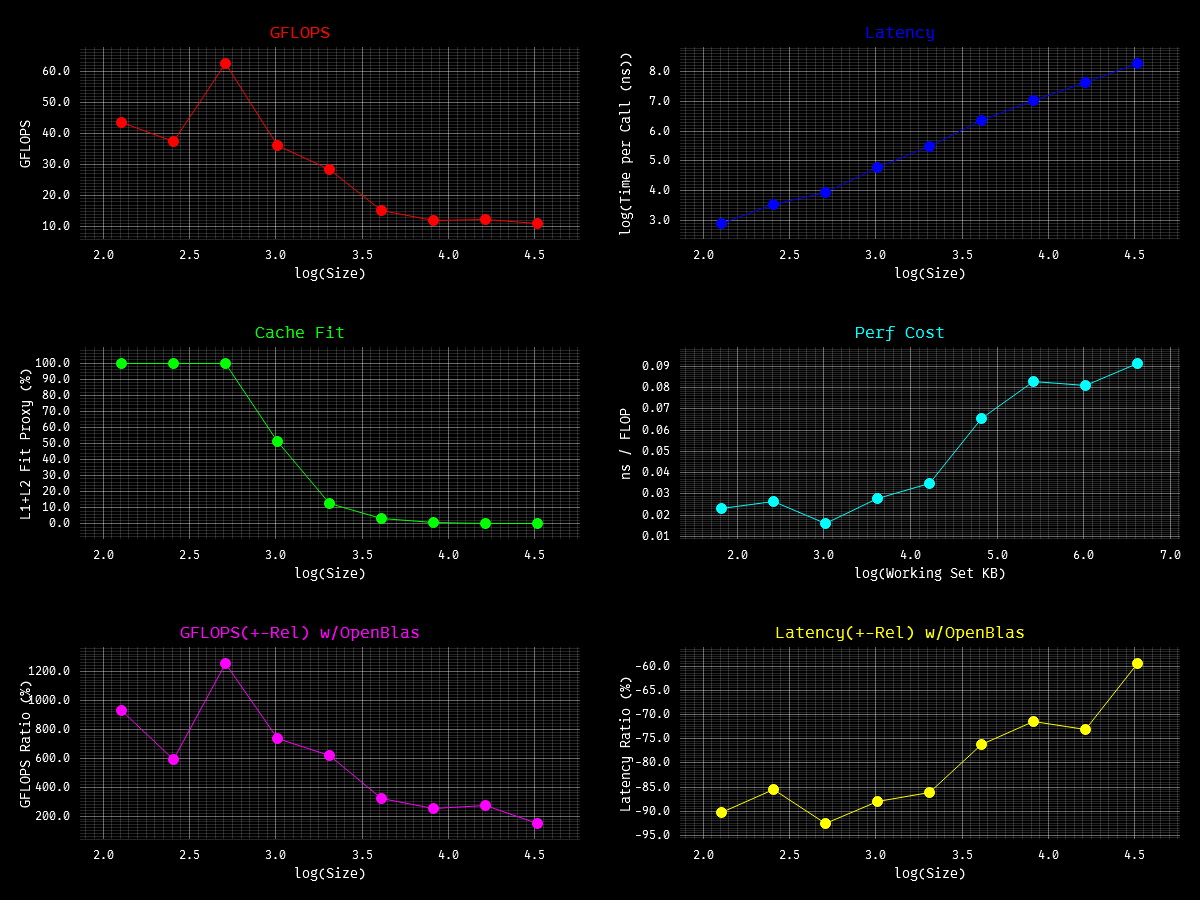
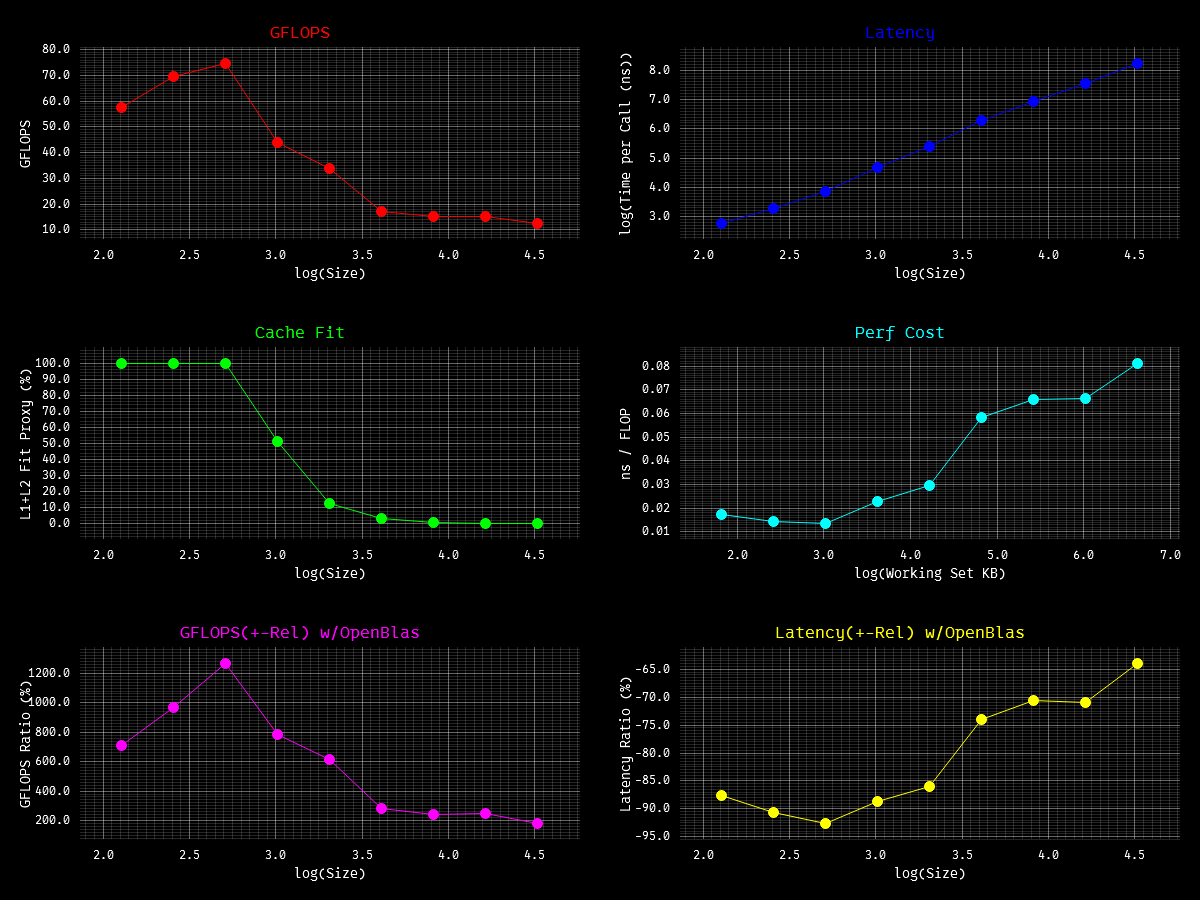
feat: refactor `gemv` trans_a; unroll col by 6, 32 fp per iter trans_b; unroll col by 4, 16 fp per iter.

diff --git a/src/lvl2.rs b/src/lvl2.rs
@@ -77,29 +77,35 @@ pub fn gemv(
         if incx == 1 && incy == 1 {
             unsafe {
                 let mut j = 0usize;
-                // 4 col unrolling
-                while j + 3 < n {
+                // 6 col unrolling
+                while j + 5 < n {
                     let alpha_x0 = alpha * *x_ptr.add(j);
                     let alpha_x1 = alpha * *x_ptr.add(j + 1);
                     let alpha_x2 = alpha * *x_ptr.add(j + 2);
                     let alpha_x3 = alpha * *x_ptr.add(j + 3);
+                    let alpha_x4 = alpha * *x_ptr.add(j + 4);
+                    let alpha_x5 = alpha * *x_ptr.add(j + 5);
 
                     // load x alpha's
                     let ax0 = _mm256_set1_ps(alpha_x0);
                     let ax1 = _mm256_set1_ps(alpha_x1);
                     let ax2 = _mm256_set1_ps(alpha_x2);
                     let ax3 = _mm256_set1_ps(alpha_x3);
+                    let ax4 = _mm256_set1_ps(alpha_x4);
+                    let ax5 = _mm256_set1_ps(alpha_x5);
 
                     let col0 = a_ptr.add(j * lda);
                     let col1 = a_ptr.add((j + 1) * lda);
                     let col2 = a_ptr.add((j + 2) * lda);
                     let col3 = a_ptr.add((j + 3) * lda);
+                    let col4 = a_ptr.add((j + 4) * lda);
+                    let col5 = a_ptr.add((j + 5) * lda);
 
-                    _mm_prefetch(a_ptr.add((j + 4) * lda) as *const i8, _MM_HINT_NTA);
-                    _mm_prefetch(a_ptr.add((j + 11) * lda) as *const i8, _MM_HINT_NTA);
+                    _mm_prefetch(a_ptr.add((j + 5) * lda) as *const i8, _MM_HINT_NTA);
+                    _mm_prefetch(a_ptr.add((j + 12) * lda) as *const i8, _MM_HINT_NTA);
 
                     let mut i = 0usize;
-                    // process 32 rows (load 4 reg for y and ~8 reg for a's col and 4 for store)
+                    // process 32 rows (load 4 reg for y and ~6 reg for a's col and 4 for store)
                     while i + 32 <= m {
                         // load y write buf once
                         let mut y0 = _mm256_loadu_ps(y_ptr.add(i));
@@ -107,9 +113,9 @@ pub fn gemv(
                         let mut y2 = _mm256_loadu_ps(y_ptr.add(i + 16));
                         let mut y3 = _mm256_loadu_ps(y_ptr.add(i + 24));
 
-                        // load 4 col of A and do 4 fmadd for each col;
-                        // i.e. 128 ops for 32 rows * 4 col with just 4 loads of x and 16 loads of A, and 4 stores for y;
-                        // we are doing a lot of work with minimal loads/stores, just praying for cpu-chan to schedule well
+                        // load 6 col of A and do 6 fma for each col;
+                        // we are doing a lot of work with minimal loads/stores,
+                        // just praying for cpu-chan to schedule well
 
                         // col 1
                         let c10 = _mm256_loadu_ps(col0.add(i));
@@ -151,9 +157,29 @@ pub fn gemv(
                         y2 = _mm256_fmadd_ps(ax3, c42, y2);
                         y3 = _mm256_fmadd_ps(ax3, c43, y3);
 
-                        // write back once per 4 col
-                        // TODO; store/compute/load all iteration is HEAVY!!!,
-                        //  we can load 4 col and just pray for cpu
+                        // col 5
+                        let c50 = _mm256_loadu_ps(col4.add(i));
+                        let c51 = _mm256_loadu_ps(col4.add(i + 8));
+                        let c52 = _mm256_loadu_ps(col4.add(i + 16));
+                        let c53 = _mm256_loadu_ps(col4.add(i + 24));
+                        y0 = _mm256_fmadd_ps(ax4, c50, y0);
+                        y1 = _mm256_fmadd_ps(ax4, c51, y1);
+                        y2 = _mm256_fmadd_ps(ax4, c52, y2);
+                        y3 = _mm256_fmadd_ps(ax4, c53, y3);
+
+                        // col 6
+                        let c60 = _mm256_loadu_ps(col5.add(i));
+                        let c61 = _mm256_loadu_ps(col5.add(i + 8));
+                        let c62 = _mm256_loadu_ps(col5.add(i + 16));
+                        let c63 = _mm256_loadu_ps(col5.add(i + 24));
+                        y0 = _mm256_fmadd_ps(ax5, c60, y0);
+                        y1 = _mm256_fmadd_ps(ax5, c61, y1);
+                        y2 = _mm256_fmadd_ps(ax5, c62, y2);
+                        y3 = _mm256_fmadd_ps(ax5, c63, y3);
+
+                        // write back once per 6 col
+                        // TODO; store/compute/load all iteration is SLOW HEAVY!!!,
+                        //  we can load 6 col and just pray for cpu
                         _mm256_storeu_ps(y_ptr.add(i), y0);
                         _mm256_storeu_ps(y_ptr.add(i + 8), y1);
                         _mm256_storeu_ps(y_ptr.add(i + 16), y2);
@@ -162,32 +188,36 @@ pub fn gemv(
                         i += 32;
                     }
 
-                    // squeeze out everything (1 y load per 4 col)
+                    // squeeze out everything (1 y load per 6 col)
                     while i + 8 <= m {
                         let mut y0 = _mm256_loadu_ps(y_ptr.add(i));
                         y0 = _mm256_fmadd_ps(ax0, _mm256_loadu_ps(col0.add(i)), y0);
                         y0 = _mm256_fmadd_ps(ax1, _mm256_loadu_ps(col1.add(i)), y0);
                         y0 = _mm256_fmadd_ps(ax2, _mm256_loadu_ps(col2.add(i)), y0);
                         y0 = _mm256_fmadd_ps(ax3, _mm256_loadu_ps(col3.add(i)), y0);
+                        y0 = _mm256_fmadd_ps(ax4, _mm256_loadu_ps(col4.add(i)), y0);
+                        y0 = _mm256_fmadd_ps(ax5, _mm256_loadu_ps(col5.add(i)), y0);
                         _mm256_storeu_ps(y_ptr.add(i), y0);
                         i += 8;
                     }
 
-                    // fallback
+                    // scalar fallback
                     while i < m {
                         let mut v = *y_ptr.add(i);
                         v = alpha_x0.mul_add(*col0.add(i), v);
                         v = alpha_x1.mul_add(*col1.add(i), v);
                         v = alpha_x2.mul_add(*col2.add(i), v);
                         v = alpha_x3.mul_add(*col3.add(i), v);
+                        v = alpha_x4.mul_add(*col4.add(i), v);
+                        v = alpha_x5.mul_add(*col5.add(i), v);
                         *y_ptr.add(i) = v;
                         i += 1;
                     }
 
-                    j += 4; // step by 4 col
+                    j += 6; // step by 6 col
                 }
 
-                // process 1 col if n is odd/not divisible by 4
+                // process 1 col if n is odd/not divisible by 6
                 while j < n {
                     let alpha_x = alpha * *x_ptr.add(j);
                     let bx = _mm256_set1_ps(alpha_x);
@@ -240,6 +270,9 @@ pub fn gemv(
                     let bx = _mm256_set1_ps(alpha_x);
                     let col = a_ptr.add(j * lda);
 
+                    _mm_prefetch(a_ptr.add((j + 1) * lda) as *const i8, _MM_HINT_NTA);
+                    _mm_prefetch(a_ptr.add((j + 8) * lda) as *const i8, _MM_HINT_NTA);
+
                     let mut i = 0usize;
                     while i + 32 <= m {
                         // load (8x4) block of A and y, do axpy, store to y; this is the rizz part
@@ -290,8 +323,8 @@ pub fn gemv(
                     let x_val = alpha * *x_ptr.offset(ix_b + j as isize * incx_isize);
                     let col = a_ptr.add(j * lda);
 
-                    _mm_prefetch(a_ptr.add((j + 1) * lda) as *const i8, _MM_HINT_NTA);
-                    _mm_prefetch(a_ptr.add((j + 8) * lda) as *const i8, _MM_HINT_NTA);
+                    //_mm_prefetch(a_ptr.add((j + 1) * lda) as *const i8, _MM_HINT_NTA);
+                    //_mm_prefetch(a_ptr.add((j + 8) * lda) as *const i8, _MM_HINT_NTA);
 
                     // strided axpy into y
                     let mut iy = iy_b;
@@ -325,84 +358,92 @@ pub fn gemv(
             if incx == 1 && incy == 1 {
                 let mut j = 0usize;
 
-                // TODO; use 4 col?
-                // process 2 columns to maximize X vector reuse
-                while j + 1 < n {
+                // process 4 columns to maximize X vector reuse
+                while j + 3 < n {
                     let col0 = a_ptr.add(j * lda);
                     let col1 = a_ptr.add((j + 1) * lda);
+                    let col2 = a_ptr.add((j + 2) * lda);
+                    let col3 = a_ptr.add((j + 3) * lda);
 
-                    _mm_prefetch(a_ptr.add((j + 2) * lda) as *const i8, _MM_HINT_NTA);
-                    _mm_prefetch(a_ptr.add((j + 9) * lda) as *const i8, _MM_HINT_NTA);
+                    _mm_prefetch(a_ptr.add((j + 4) * lda) as *const i8, _MM_HINT_NTA);
+                    _mm_prefetch(a_ptr.add((j + 8) * lda) as *const i8, _MM_HINT_NTA);
 
                     // set 4 acc from each column
                     let mut sum0_0 = _mm256_setzero_ps();
                     let mut sum0_1 = _mm256_setzero_ps();
-                    let mut sum0_2 = _mm256_setzero_ps();
-                    let mut sum0_3 = _mm256_setzero_ps();
 
                     let mut sum1_0 = _mm256_setzero_ps();
                     let mut sum1_1 = _mm256_setzero_ps();
-                    let mut sum1_2 = _mm256_setzero_ps();
-                    let mut sum1_3 = _mm256_setzero_ps();
+
+                    let mut sum2_0 = _mm256_setzero_ps();
+                    let mut sum2_1 = _mm256_setzero_ps();
+
+                    let mut sum3_0 = _mm256_setzero_ps();
+                    let mut sum3_1 = _mm256_setzero_ps();
 
                     let mut i = 0usize;
 
-                    while i + 32 <= m {
-                        // load x once (32 floats)
+                    while i + 16 <= m {
+                        // load x once (16 floats)
                         let x0 = _mm256_loadu_ps(x_ptr.add(i));
                         let x1 = _mm256_loadu_ps(x_ptr.add(i + 8));
-                        let x2 = _mm256_loadu_ps(x_ptr.add(i + 16));
-                        let x3 = _mm256_loadu_ps(x_ptr.add(i + 24));
 
                         // compute fma for col 0
                         sum0_0 = _mm256_fmadd_ps(_mm256_loadu_ps(col0.add(i)), x0, sum0_0);
                         sum0_1 = _mm256_fmadd_ps(_mm256_loadu_ps(col0.add(i + 8)), x1, sum0_1);
-                        sum0_2 = _mm256_fmadd_ps(_mm256_loadu_ps(col0.add(i + 16)), x2, sum0_2);
-                        sum0_3 = _mm256_fmadd_ps(_mm256_loadu_ps(col0.add(i + 24)), x3, sum0_3);
 
                         // compute fma for col 1
                         sum1_0 = _mm256_fmadd_ps(_mm256_loadu_ps(col1.add(i)), x0, sum1_0);
                         sum1_1 = _mm256_fmadd_ps(_mm256_loadu_ps(col1.add(i + 8)), x1, sum1_1);
-                        sum1_2 = _mm256_fmadd_ps(_mm256_loadu_ps(col1.add(i + 16)), x2, sum1_2);
-                        sum1_3 = _mm256_fmadd_ps(_mm256_loadu_ps(col1.add(i + 24)), x3, sum1_3);
 
-                        i += 32;
+                        //compute fma for col2
+                        sum2_0 = _mm256_fmadd_ps(_mm256_loadu_ps(col2.add(i)), x0, sum2_0);
+                        sum2_1 = _mm256_fmadd_ps(_mm256_loadu_ps(col2.add(i + 8)), x1, sum2_1);
+
+                        //compute fma for col 3
+                        sum3_0 = _mm256_fmadd_ps(_mm256_loadu_ps(col3.add(i)), x0, sum3_0);
+                        sum3_1 = _mm256_fmadd_ps(_mm256_loadu_ps(col3.add(i + 8)), x1, sum3_1);
+
+                        i += 16;
                     }
 
+                    // if 8 rows remaining
                     while i + 8 <= m {
                         let x0 = _mm256_loadu_ps(x_ptr.add(i));
                         sum0_0 = _mm256_fmadd_ps(_mm256_loadu_ps(col0.add(i)), x0, sum0_0);
                         sum1_0 = _mm256_fmadd_ps(_mm256_loadu_ps(col1.add(i)), x0, sum1_0);
+                        sum2_0 = _mm256_fmadd_ps(_mm256_loadu_ps(col2.add(i)), x0, sum2_0);
+                        sum3_0 = _mm256_fmadd_ps(_mm256_loadu_ps(col3.add(i)), x0, sum3_0);
                         i += 8;
                     }
 
-                    // combine acc for col 2
-                    let sum0_01 = _mm256_add_ps(sum0_0, sum0_1);
-                    let sum0_23 = _mm256_add_ps(sum0_2, sum0_3);
-                    let mut dot0 = reduce_f32(_mm256_add_ps(sum0_01, sum0_23));
-
-                    // combine acc for col 1
-                    let sum1_01 = _mm256_add_ps(sum1_0, sum1_1);
-                    let sum1_23 = _mm256_add_ps(sum1_2, sum1_3);
-                    let mut dot1 = reduce_f32(_mm256_add_ps(sum1_01, sum1_23));
+                    // reduction of acc
+                    let mut dot0 = reduce_f32(_mm256_add_ps(sum0_0, sum0_1));
+                    let mut dot1 = reduce_f32(_mm256_add_ps(sum1_0, sum1_1));
+                    let mut dot2 = reduce_f32(_mm256_add_ps(sum2_0, sum2_1));
+                    let mut dot3 = reduce_f32(_mm256_add_ps(sum3_0, sum3_1));
 
                     // scalar fallback
                     while i < m {
                         let x_val = *x_ptr.add(i);
-                        dot0 += *col0.add(i) * x_val;
-                        dot1 += *col1.add(i) * x_val;
+                        dot0 = x_val.mul_add(*col0.add(i), dot0);
+                        dot1 = x_val.mul_add(*col1.add(i), dot1);
+                        dot2 = x_val.mul_add(*col2.add(i), dot2);
+                        dot3 = x_val.mul_add(*col3.add(i), dot3);
                         i += 1;
                     }
 
                     // write back with alpha scaling (contiguous)
                     *y_ptr.add(j) = alpha.mul_add(dot0, *y_ptr.add(j));
                     *y_ptr.add(j + 1) = alpha.mul_add(dot1, *y_ptr.add(j + 1));
+                    *y_ptr.add(j + 2) = alpha.mul_add(dot2, *y_ptr.add(j + 2));
+                    *y_ptr.add(j + 3) = alpha.mul_add(dot3, *y_ptr.add(j + 3));
 
-                    j += 2;
+                    j += 4;
                 }
 
-                // if n is odd, process last column; no reuse but still simd dot product
-                if j < n {
+                // if n is not divisible by 4, process remaining columns; no reuse but still simd dot product
+                while j < n {
                     let col = a_ptr.add(j * lda);
                     let mut sum0 = _mm256_setzero_ps();
                     let mut sum1 = _mm256_setzero_ps();
@@ -421,6 +462,7 @@ pub fn gemv(
                         );
                         i += 16;
                     }
+
                     while i + 8 <= m {
                         sum0 = _mm256_fmadd_ps(
                             _mm256_loadu_ps(col.add(i)),
@@ -432,10 +474,12 @@ pub fn gemv(
 
                     let mut dot_val = reduce_f32(_mm256_add_ps(sum0, sum1));
                     while i < m {
-                        dot_val += *col.add(i) * *x_ptr.add(i);
+                        dot_val = (*col.add(i)).mul_add(*x_ptr.add(i), dot_val);
                         i += 1;
                     }
+
                     *y_ptr.add(j) = alpha.mul_add(dot_val, *y_ptr.add(j));
+                    j += 1;
                 }
             } else if incx == 1 {
                 for j in 0..n {
@@ -483,8 +527,7 @@ pub fn gemv(
                     // reduce to scalar
                     let sum01 = _mm256_add_ps(sum0, sum1);
                     let sum23 = _mm256_add_ps(sum2, sum3);
-                    let sum = _mm256_add_ps(sum01, sum23);
-                    let mut dot_val = reduce_f32(sum);
+                    let mut dot_val = reduce_f32(_mm256_add_ps(sum01, sum23));
 
                     // any remaining
                     while i < m {
@@ -505,8 +548,8 @@ pub fn gemv(
                 for j in 0..n {
                     let col = a_ptr.add(j * lda);
 
-                    _mm_prefetch(a_ptr.add((j + 1) * lda) as *const i8, _MM_HINT_NTA);
-                    _mm_prefetch(a_ptr.add((j + 8) * lda) as *const i8, _MM_HINT_NTA);
+                    //_mm_prefetch(a_ptr.add((j + 1) * lda) as *const i8, _MM_HINT_NTA);
+                    //_mm_prefetch(a_ptr.add((j + 8) * lda) as *const i8, _MM_HINT_NTA);
 
                     // compute dot
                     let mut ix = ix_b;

diff --git a/src/lib.rs b/src/lib.rs
@@ -54,7 +54,10 @@
 #[cfg(not(target_arch = "x86_64"))]
 compile_error!("blas_rs is strictly supported on x86_64 architectures");
 
-#[cfg(any(not(target_feature = "avx2"), not(target_feature = "fma")))]
+#[cfg(all(
+    not(doc),
+    any(not(target_feature = "avx2"), not(target_feature = "fma"))
+))]
 compile_error!(
     "blas_rs requires some x86-64-v3 CPU capable features. Try compiling with `-C target-cpu=x86-64-v3`"
 );
